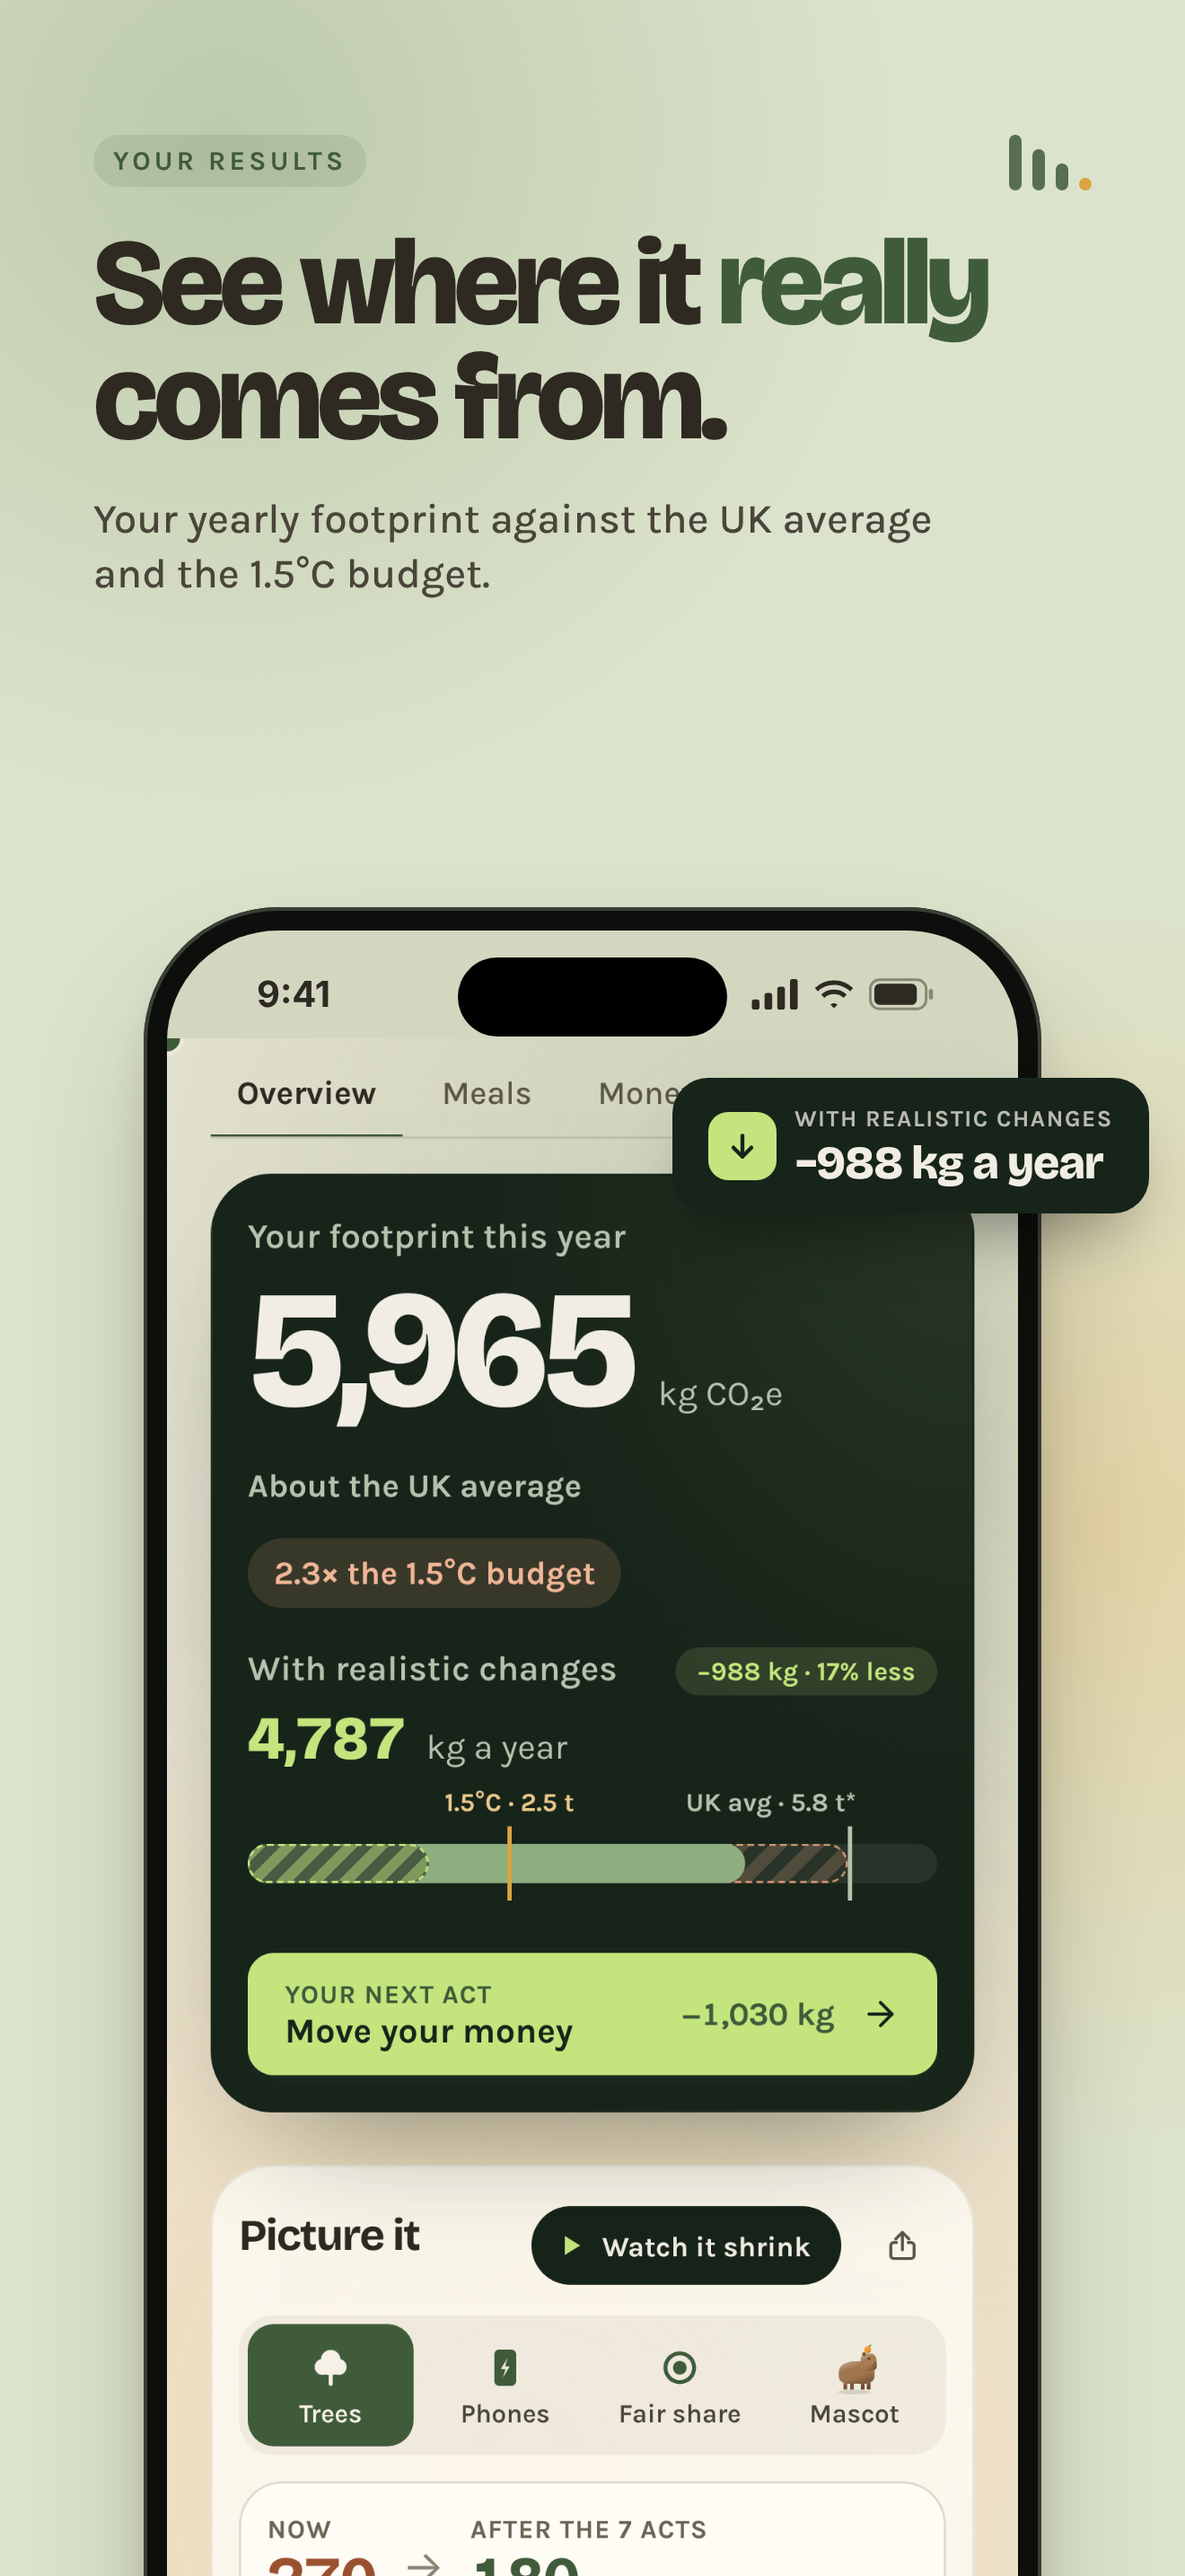
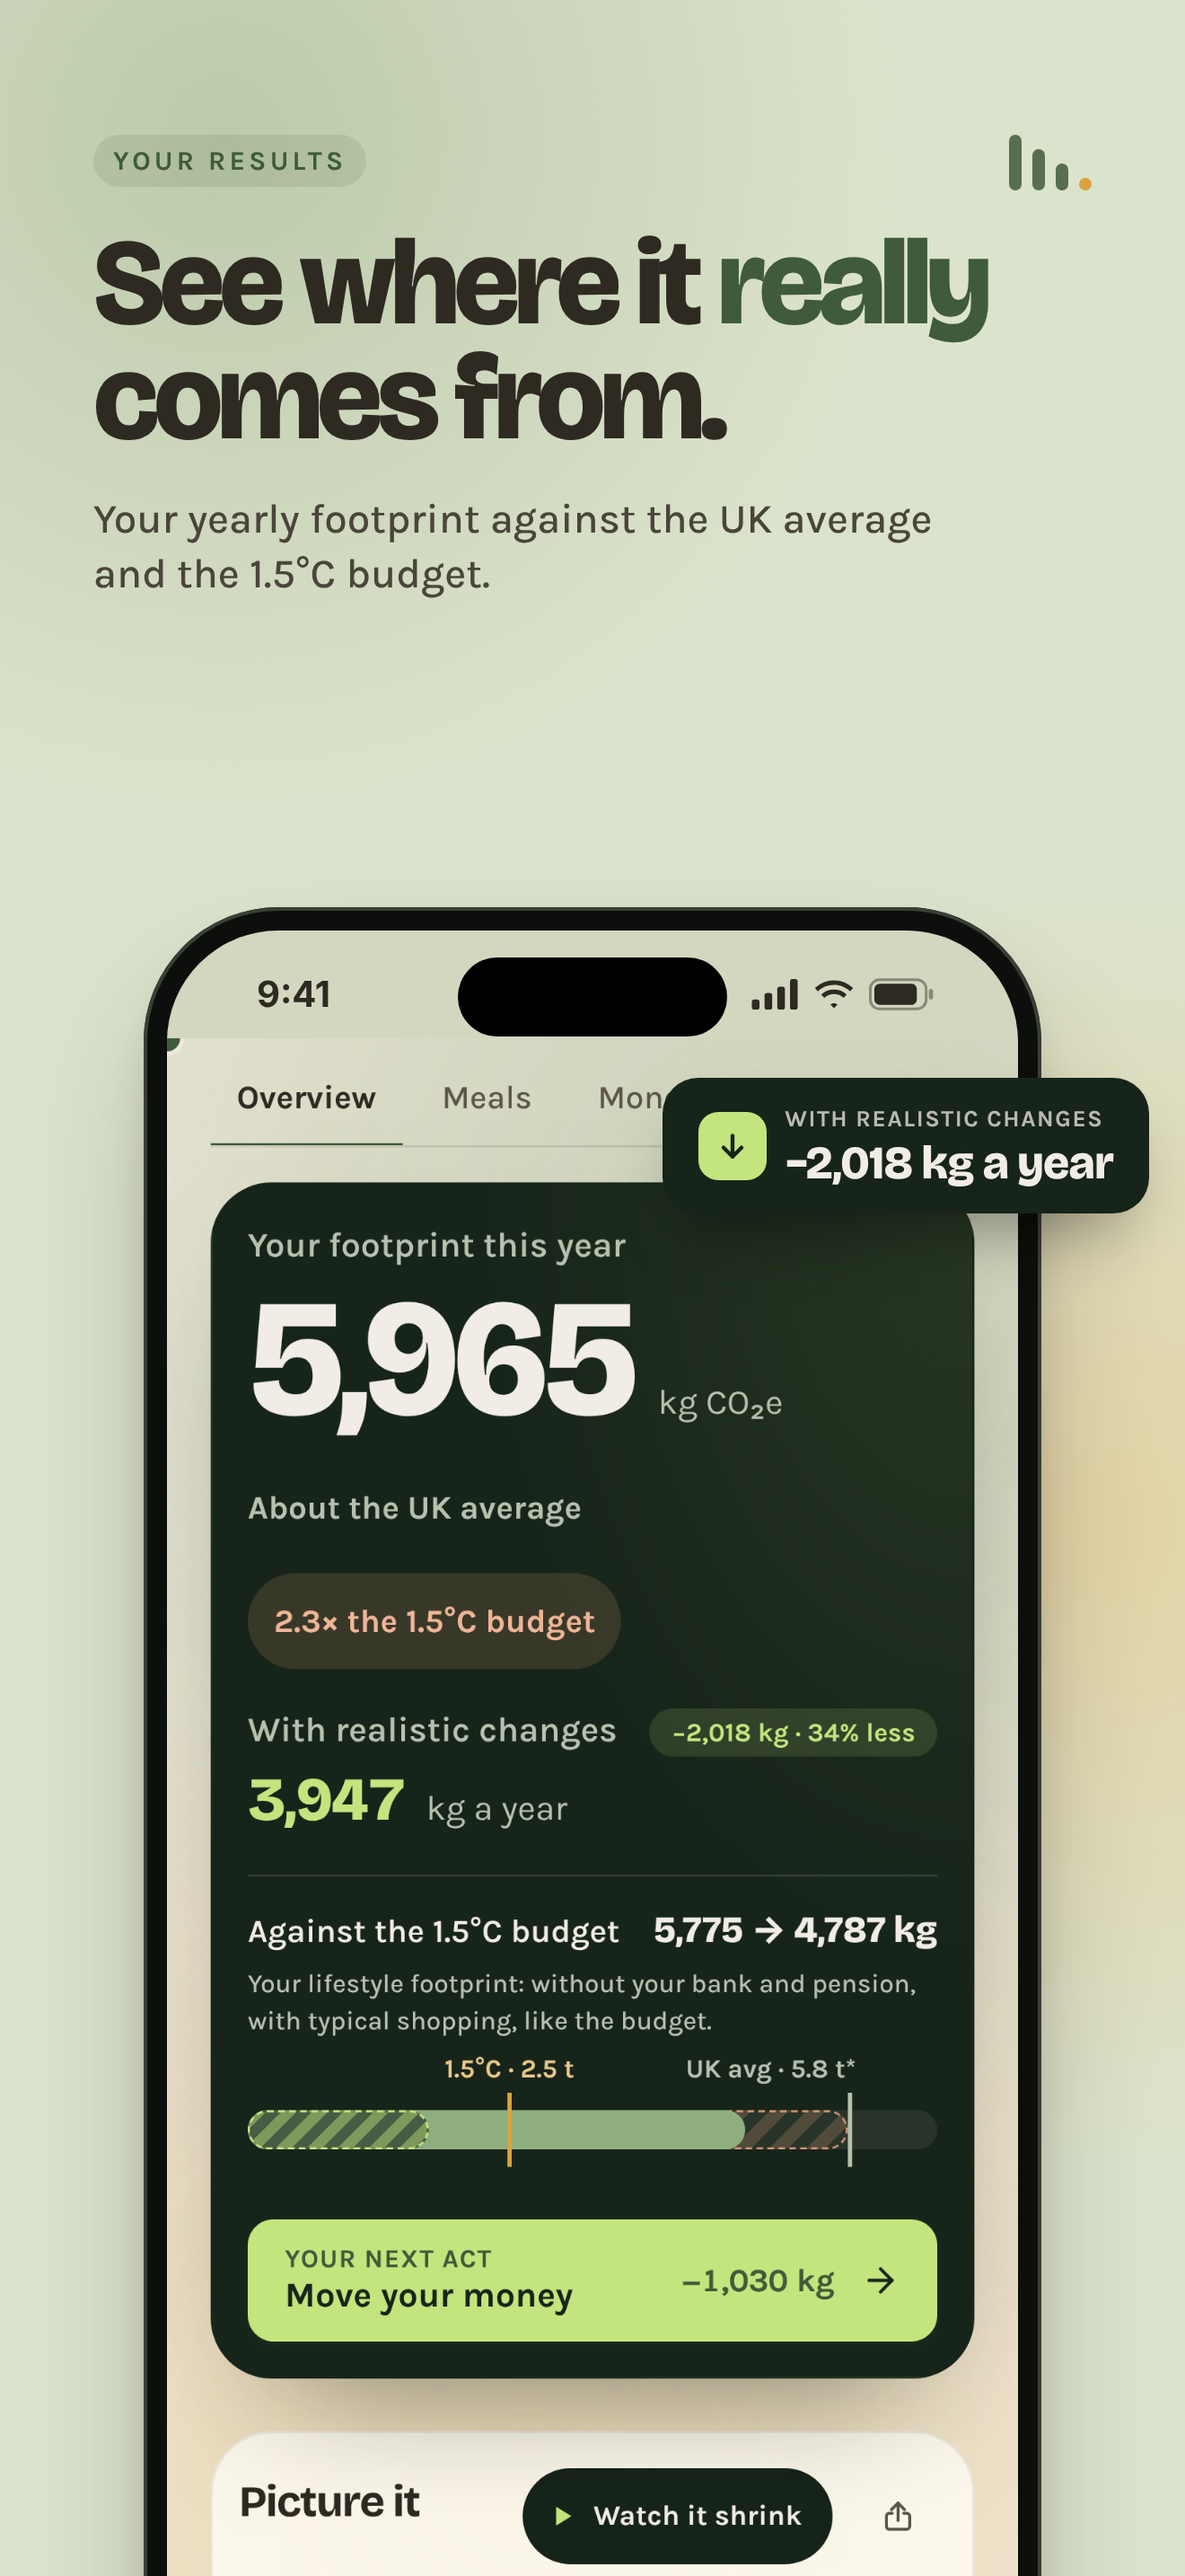
App Store screenshots: remake slide 3 for the new Results card
Slide 3 now shows the reworked Results card (5,965 -> 3,947 kg with
realistic changes, the budget comparison under its own heading) and its
badge reads -2,018 kg a year to match.

Claude-Session: https://claude.ai/code/session_01XySxWybEsCRxKg2virx8w7

Changed region(s): [[0.1553, 0.4034, 0.9318, 1.0], [0.5591, 0.5275, 0.6523, 0.5586]]

diff --git a/store/app-store-screenshots/source/slides.js b/store/app-store-screenshots/source/slides.js
@@ -1,7 +1,7 @@
 window.SLIDES=[
  {bg:'dark',brand:true,h:'Know your footprint.<br><em>Watch it shrink.</em>',sub:'A free UK carbon footprint calculator, built around the changes that matter most.',img:'welcome-cats',top:'#EFE9DC',statusInk:'#2E2A22',chip:{cls:'sprout',icon:'leaf',small:'Free for everyone',text:'No ads, ever',pos:'right:40px;top:1250px'}},
  {bg:'light',eye:'Six short steps',h:'Answer a few questions about <em>your week.</em>',sub:'Meals, travel, flights, home, pets and money. About five minutes.',img:'survey',top:'#EFE9DC',statusInk:'#2E2A22',chip:{cls:'cream',icon:'clock',small:'No account needed',text:'About 5 minutes',pos:'left:40px;top:1200px'}},
- {bg:'sage',eye:'Your results',h:'See where it <em>really</em> comes from.',sub:'Your yearly footprint against the UK average and the 1.5°C budget.',img:'results',top:'#E3E5D3',statusInk:'#2E2A22',chip:{cls:'canopyc',icon:'down',small:'With realistic changes',text:'−988 kg a year',pos:'right:40px;top:1200px'}},
+ {bg:'sage',eye:'Your results',h:'See where it <em>really</em> comes from.',sub:'Your yearly footprint against the UK average and the 1.5°C budget.',img:'results',top:'#E3E5D3',statusInk:'#2E2A22',chip:{cls:'canopyc',icon:'down',small:'With realistic changes',text:'−2,018 kg a year',pos:'right:40px;top:1200px'}},
  {bg:'dark',eye:'Picture your year',h:'Watch your footprint <em>shrink.</em>',sub:'Tap through your biggest changes and see the difference each one makes.',img:'story',top:'#17241a',statusInk:'#F1EDE4',chip:{cls:'sprout',icon:'down',small:'Tap through',text:'Your 3 biggest moves',pos:'right:40px;top:1180px'}},
  {bg:'honey',eye:'Greener switches',h:'Find your <em>biggest</em> switch.',sub:'Real Zero’s 7 Acts, with switches picked for the climate first.',img:'switches-act',top:'#E5DFC9',statusInk:'#2E2A22',chip:{cls:'canopyc',icon:'leaf',small:'Move your money',text:'−87% less CO₂e',pos:'right:40px;top:1200px'}},
  {bg:'light',eye:'My Habits',h:'Build habits that <em>stick.</em>',sub:'Bank each Act, level up, and keep your weekly streak going.',img:'habits',top:'#EAE6D6',statusInk:'#2E2A22',chip:{cls:'honeyc',icon:'leaf',small:'Level 2',text:'Sprout',pos:'right:40px;top:2500px'}},
